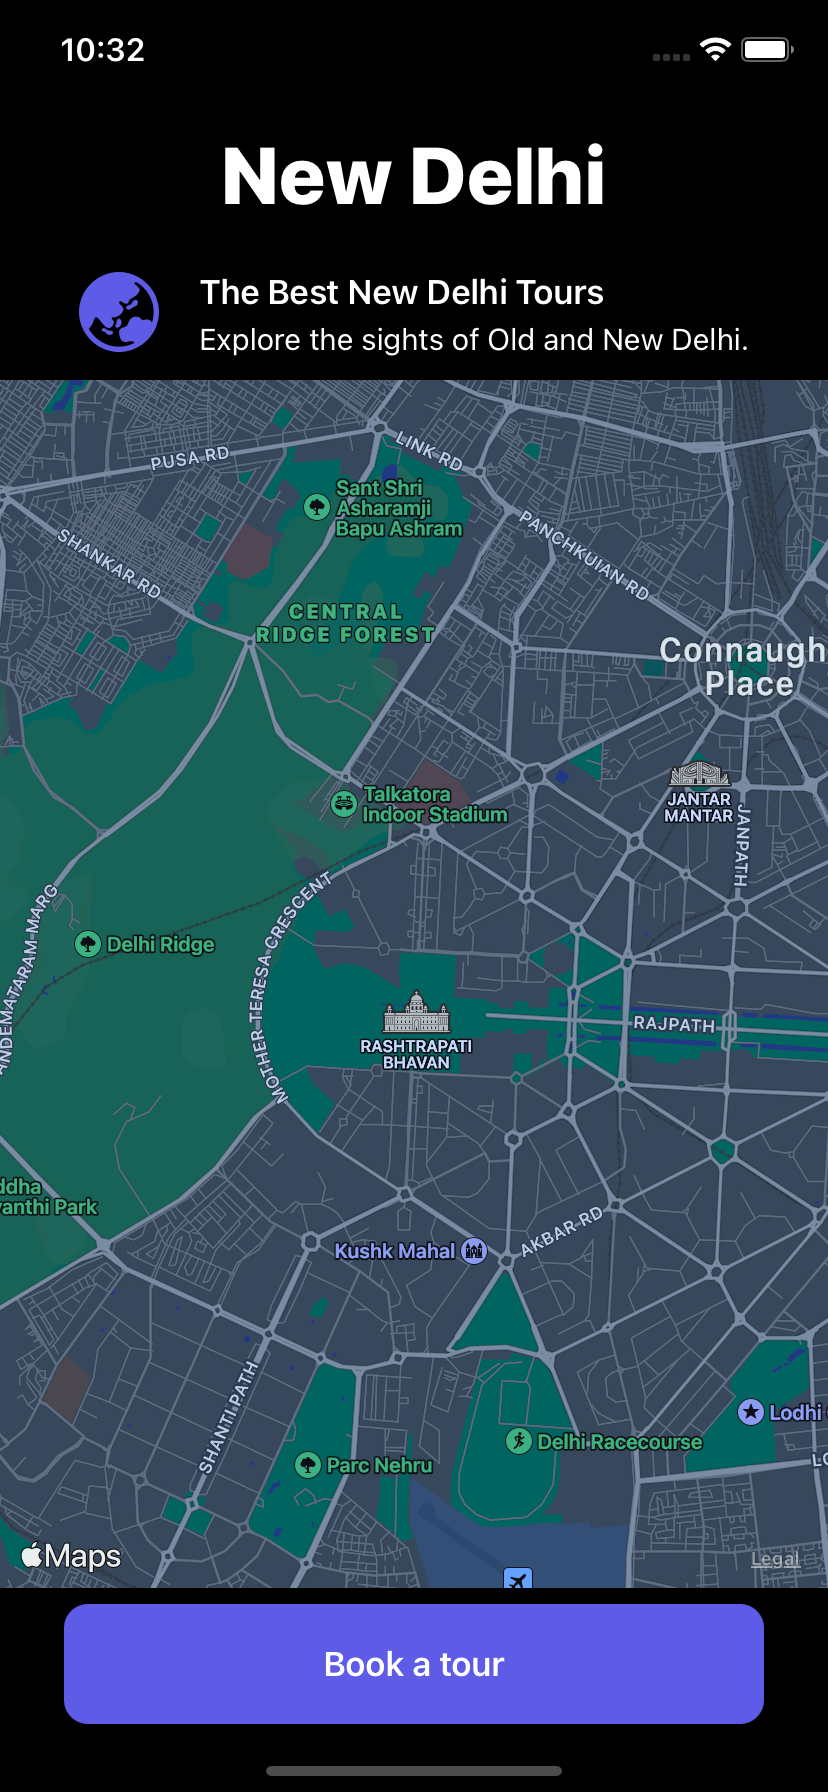
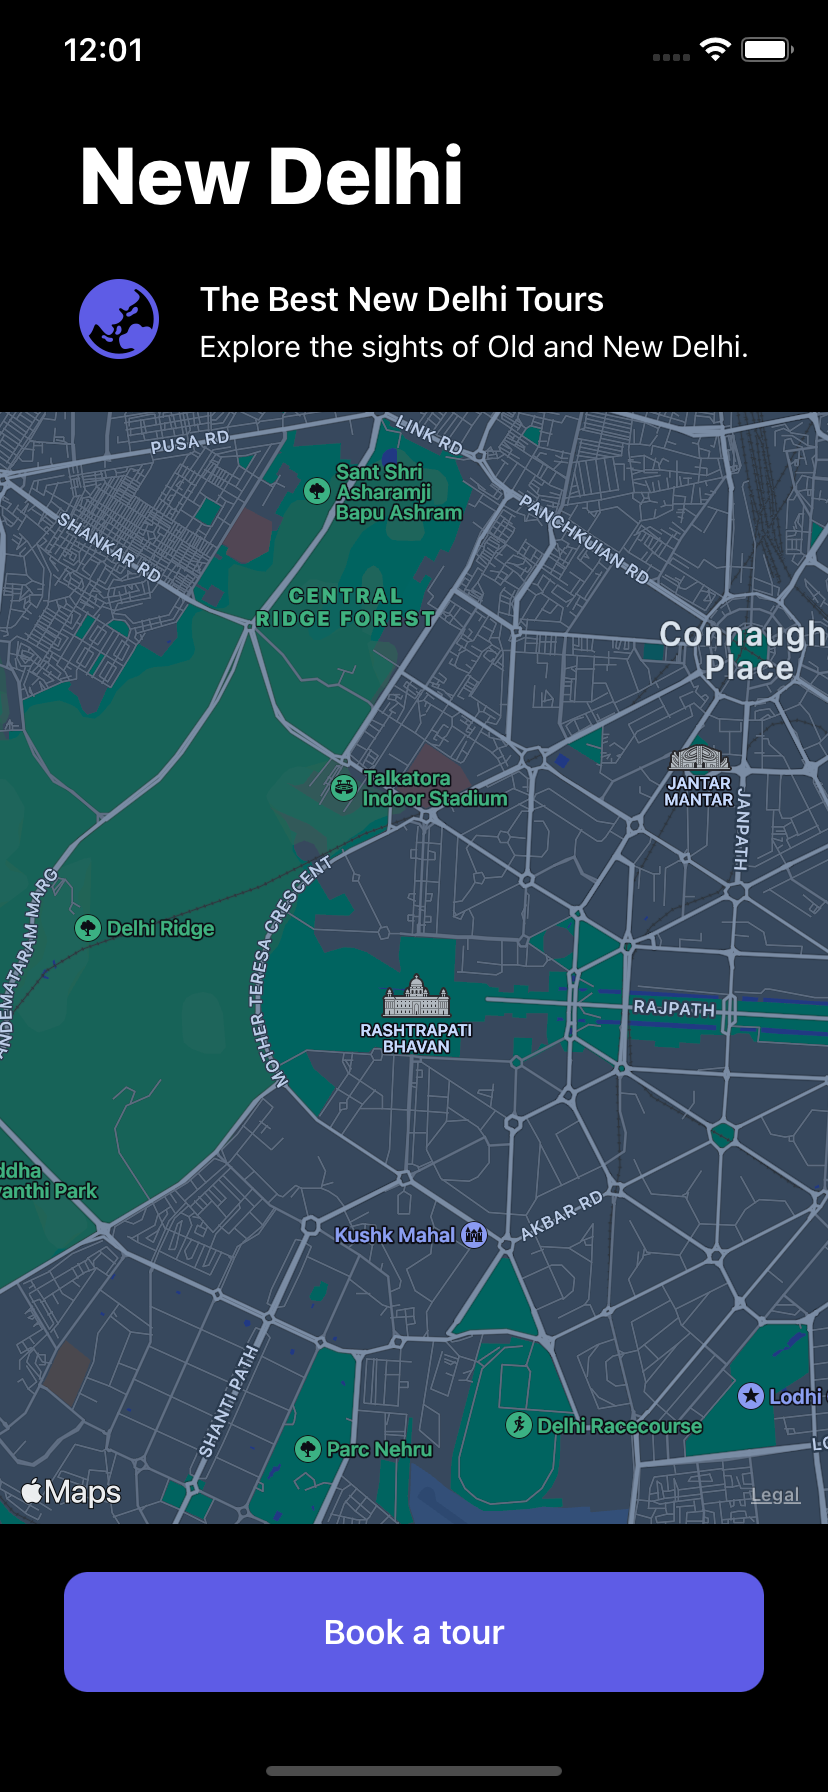
fix alignment

diff --git a/05-dark-map/Dark Map/Dark Map/ContentView.swift b/05-dark-map/Dark Map/Dark Map/ContentView.swift
@@ -17,30 +17,32 @@ struct ContentView: View {
     
     var body: some View {
         VStack {
-            Text("New Delhi")
-                .font(.system(size: 40))
-                                .fontWeight(.heavy)
-                                .foregroundColor(.primary)
-                .padding()
-            HStack (alignment: .top, spacing: 20) {
-                                Image(systemName: "globe.asia.australia.fill").resizable()
-                                    .frame(width: 40, height: 40)
-                                    .foregroundColor(Color(UIColor.systemIndigo))
-                                VStack (alignment: .leading, spacing: 4) {
-                                    Text("The Best New Delhi Tours")
-                                        .font(.headline)
-                                        .bold()
-                                    Text("Explore the sights of Old and New Delhi.")
-                                        .font(.subheadline)
+            VStack (alignment: .leading) {
+                Text("New Delhi")
+                    .font(.system(size: 40))
+                                    .fontWeight(.heavy)
+                                    .foregroundColor(.primary)
+                HStack (alignment: .top, spacing: 20) {
+                                    Image(systemName: "globe.asia.australia.fill").resizable()
+                                        .frame(width: 40, height: 40)
+                                        .foregroundColor(Color(UIColor.systemIndigo))
+                                    VStack (alignment: .leading, spacing: 4) {
+                                        Text("The Best New Delhi Tours")
+                                            .font(.headline)
+                                            .bold()
+                                        Text("Explore the sights of Old and New Delhi.")
+                                            .font(.subheadline)
+                                    }
                                 }
-                            }
+            }.padding()
             Map(coordinateRegion: $region)
                 .edgesIgnoringSafeArea(.all)
             Button(action: {}) {
                             Text("Book a tour").foregroundColor(.white).bold()
-                        }.frame(width: 350, height: 60)
+            }.frame(width: 350, height: 60)
                             .background(Color(UIColor.systemIndigo))
                             .cornerRadius(12)
+                            .padding()
         }
     }
 }
